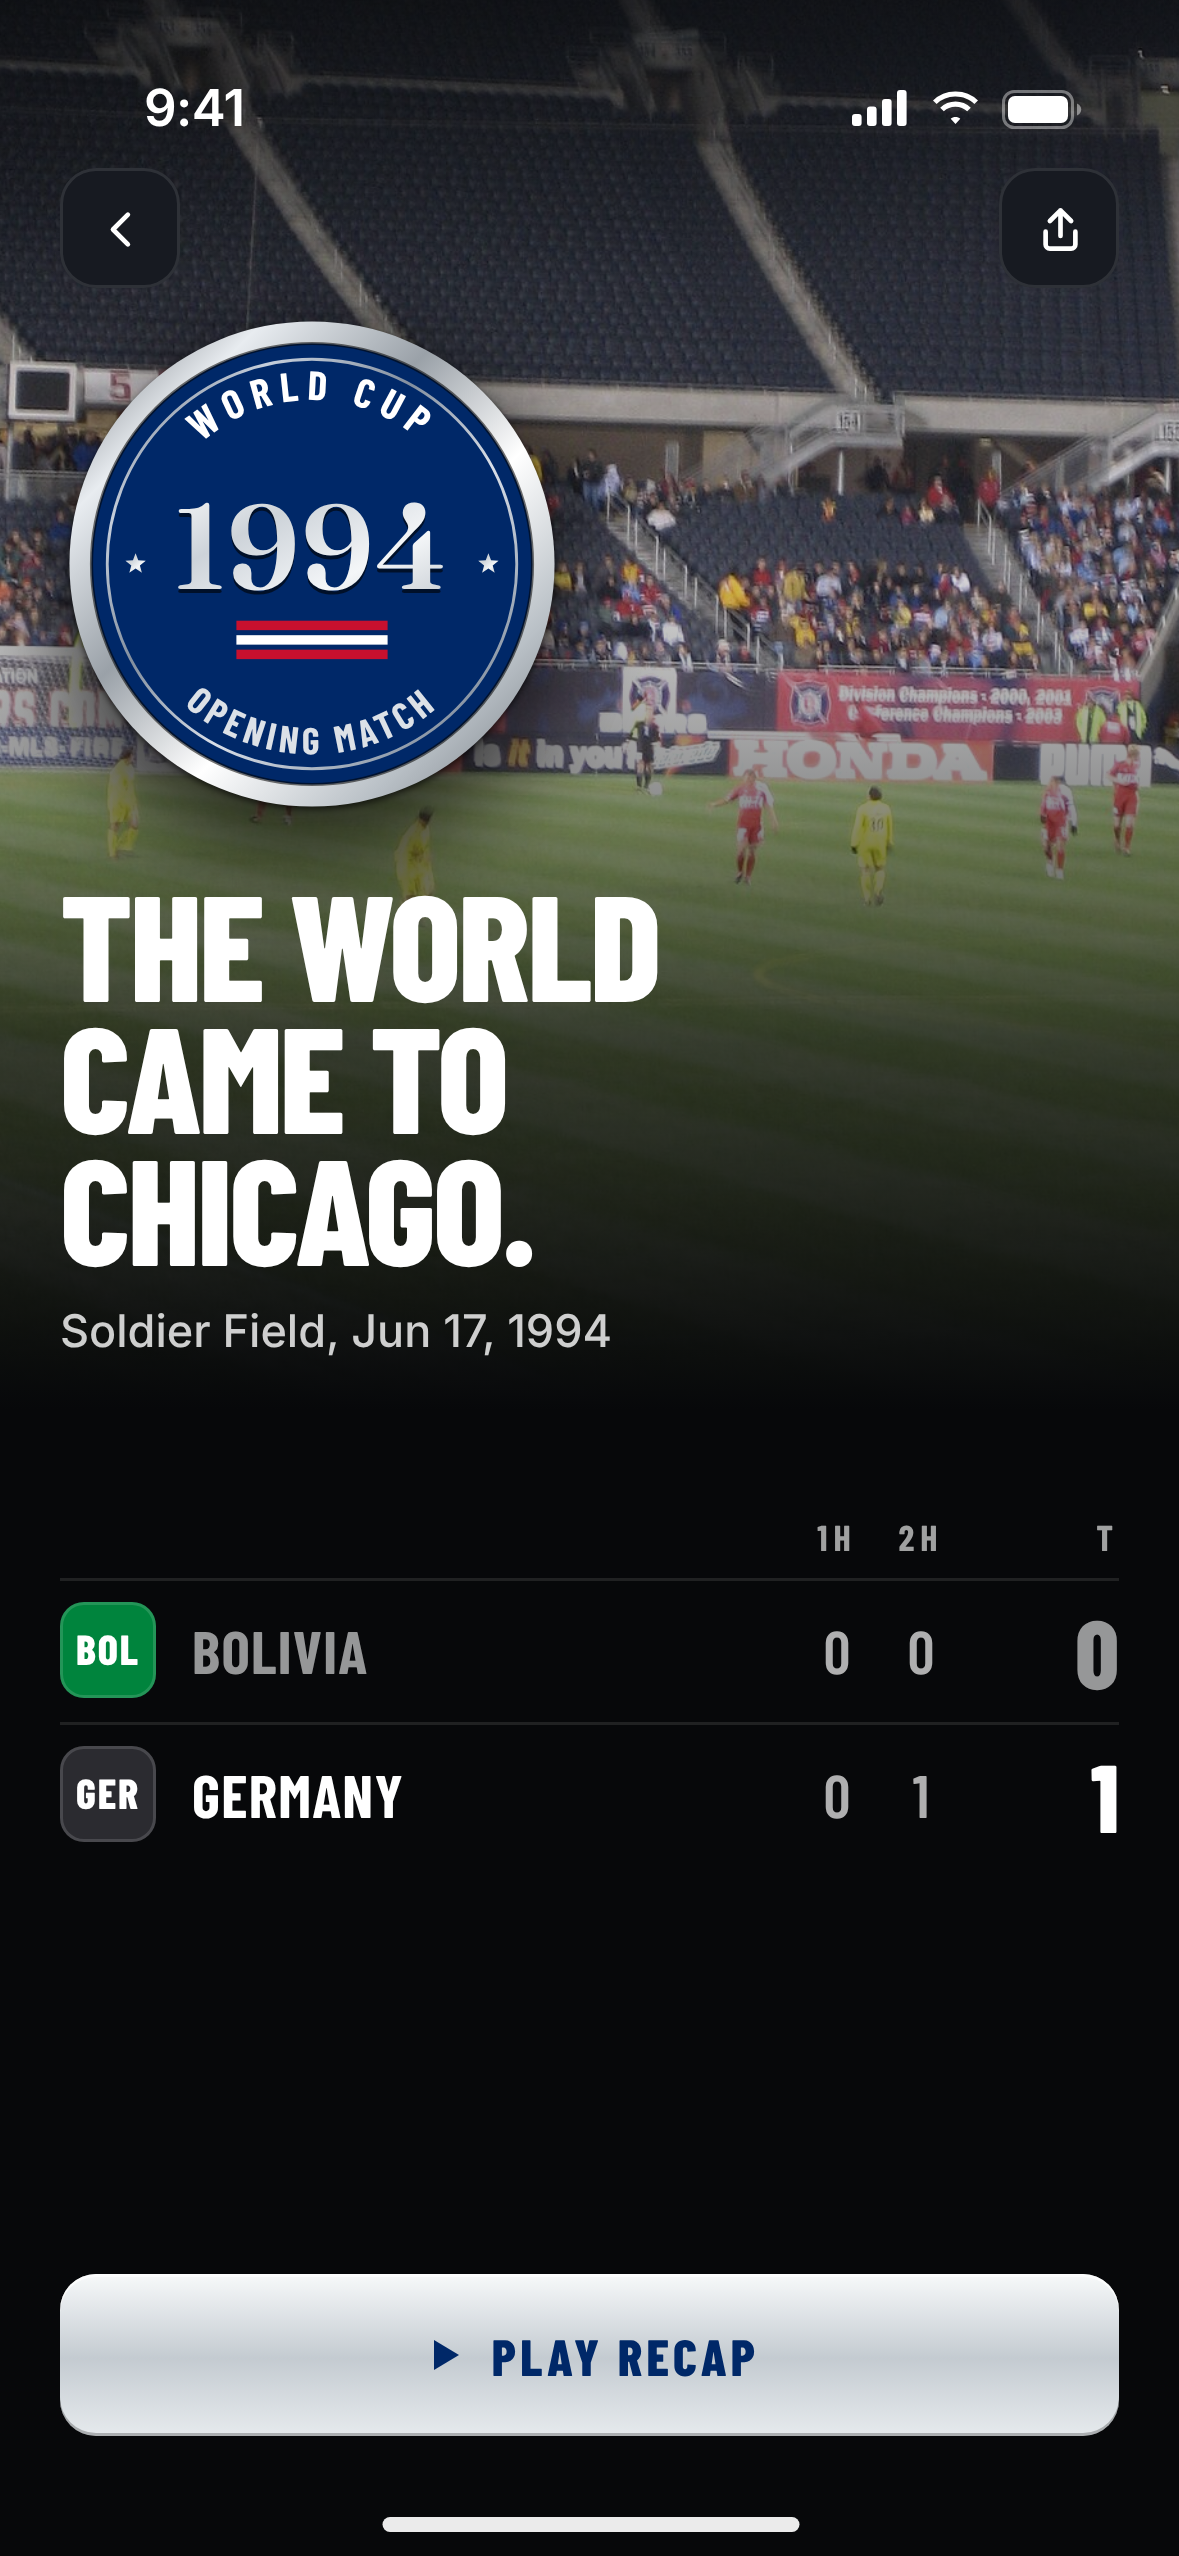
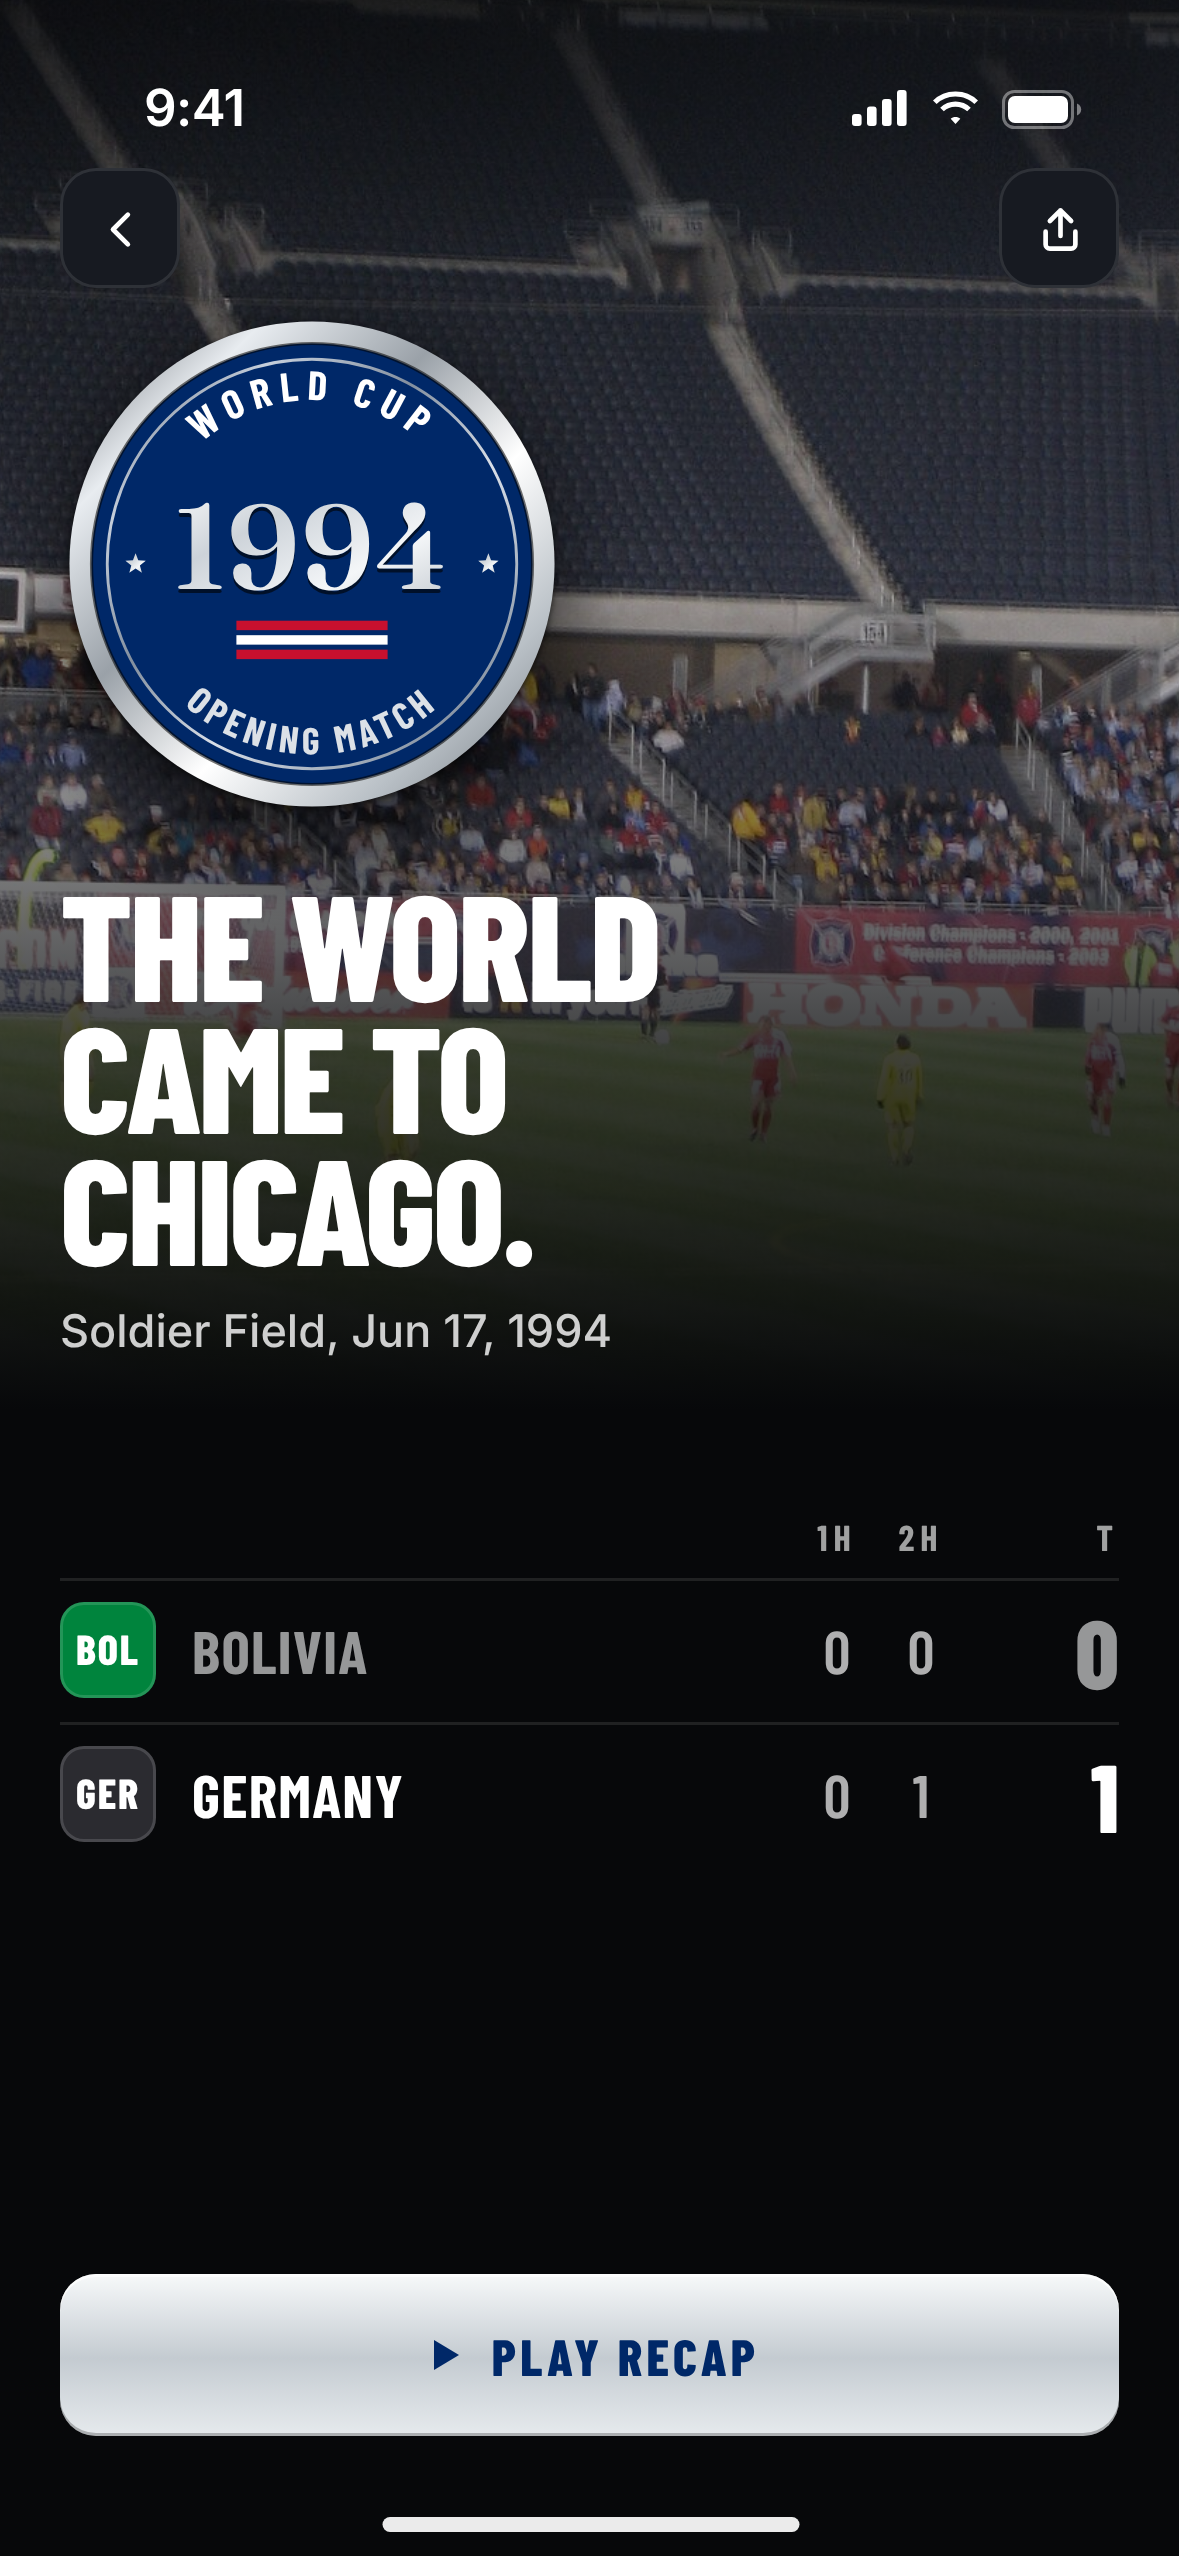
Badge exploration and palette research (in progress)
Claude-Session: https://claude.ai/code/session_01YKCsRGYnDsF5Pryete24Wa

Changed region(s): [[0.0, 0.0, 1.0, 0.4327], [0.916, 0.0, 1.0, 0.1236], [0.0611, 0.0309, 0.0916, 0.0618]]

diff --git a/mockups/big-games/explorations/heritage/features/badges/v5-world-cup-1994.html b/mockups/big-games/explorations/heritage/features/badges/v5-world-cup-1994.html
@@ -35,7 +35,7 @@
   .head { top: 292px; }
   .head .b-display { font-size: 50px; }</style></head>
 <body class="phone b">
-<div class="f-hero"><div class="crop" data-crop="soldier-soccer.jpg 0 500 1280 1100"></div></div><div class="pin"><svg class="hx-badge" style="" width="168.0" height="168" viewBox="0 0 160 160" xmlns="http://www.w3.org/2000/svg"><defs><linearGradient id="hx22-rim" x1="0" y1="0" x2="1" y2="1"><stop offset="0.000" stop-color="#5f656c"/><stop offset="0.200" stop-color="#e8ecf0"/><stop offset="0.400" stop-color="#9aa1a8"/><stop offset="0.600" stop-color="#ffffff"/><stop offset="0.800" stop-color="#b9c0c6"/><stop offset="1.000" stop-color="#6b7178"/></linearGradient><linearGradient id="hx22-txt" x1="0" y1="0" x2="1" y2="1"><stop offset="0.000" stop-color="#ffffff"/><stop offset="0.333" stop-color="#cdd3d9"/><stop offset="0.667" stop-color="#f4f6f8"/><stop offset="1.000" stop-color="#bcc3ca"/></linearGradient></defs><circle cx="80" cy="80" r="77" fill="url(#hx22-rim)"/><circle cx="80" cy="80" r="70" fill="#002868" stroke="rgba(0,0,0,.55)" stroke-width="1"/><circle cx="80" cy="80" r="65" fill="none" stroke="url(#hx22-rim)" stroke-width=".9" opacity=".85"/><rect x="56" y="98.0" width="48" height="3" fill="#C8102E"/><rect x="56" y="102.6" width="48" height="3" fill="#FFFFFF"/><rect x="56" y="107.2" width="48" height="3" fill="#C8102E"/><path id="hx22-arct" d="M28,80 A52,52 0 0 1 132,80" fill="none"/><text font-family="Barlow Condensed" font-weight="700" font-size="13" letter-spacing="2.6" fill="#FFFFFF"><textPath href="#hx22-arct" startOffset="50%" text-anchor="middle">WORLD CUP</textPath></text><path id="hx22-arcb" d="M19.5,80 A60.5,60.5 0 0 0 140.5,80" fill="none"/><text font-family="Barlow Condensed" font-weight="700" font-size="12" letter-spacing="1.6" fill="#DCE1E7"><textPath href="#hx22-arcb" startOffset="50%" text-anchor="middle">OPENING MATCH</textPath></text><polygon points="24.00,76.60 24.84,78.84 27.23,78.95 25.36,80.44 26.00,82.75 24.00,81.43 22.00,82.75 22.64,80.44 20.77,78.95 23.16,78.84" fill="url(#hx22-txt)"/><polygon points="136.00,76.60 136.84,78.84 139.23,78.95 137.36,80.44 138.00,82.75 136.00,81.43 134.00,82.75 134.64,80.44 132.77,78.95 135.16,78.84" fill="url(#hx22-txt)"/><text x="80" y="88" text-anchor="middle" font-family="Fraunces" font-weight="600" font-size="38" letter-spacing="0.76" style="font-variation-settings:'opsz' 72" fill="rgba(0,0,0,.6)" transform="translate(0 1.3)">1994</text><text x="80" y="88" text-anchor="middle" font-family="Fraunces" font-weight="600" font-size="38" letter-spacing="0.76" style="font-variation-settings:'opsz' 72" fill="url(#hx22-txt)">1994</text></svg></div><div class="b-nav" style="z-index:7"><div class="b-icon-btn"><svg viewBox="0 0 24 24"><path d="M15 5l-7 7 7 7"/></svg></div><div class="b-icon-btn"><svg viewBox="0 0 24 24"><path d="M12 15V3M7 8l5-5 5 5M5 13v6a2 2 0 0 0 2 2h10a2 2 0 0 0 2-2v-6"/></svg></div></div><div class="f-col head"><div class="b-display">The world<br>came to<br>Chicago.</div><div class="where">Soldier Field, Jun 17, 1994</div></div><div class="f-col body"><table class="ls"><tr><th></th><th>1H</th><th>2H</th><th style="text-align:right">T</th></tr><tr class="lose"><td class="tm"><div><span class="f-mono" style="--c:#00843d;box-shadow:inset 0 0 0 1px rgba(255,255,255,.14)">BOL</span>Bolivia</div></td><td>0</td><td>0</td><td class="t">0</td></tr><tr class=""><td class="tm"><div><span class="f-mono" style="--c:#2b2b30;box-shadow:inset 0 0 0 1px rgba(255,255,255,.14)">GER</span>Germany</div></td><td>0</td><td>1</td><td class="t">1</td></tr></table></div><div class="cta"><div class="b-btn" style="background:linear-gradient(180deg,#f7f9fa 0%,#c4cbd1 52%,#e6eaed 100%);color:#002868"><svg viewBox="0 0 24 24"><path d="M7 4.5v15l12.5-7.5z"/></svg>Play recap</div></div><script>
+<div class="f-hero"><div class="crop" data-crop="soldier-soccer.jpg 0 380 1280 1000"></div></div><div class="pin"><svg class="hx-badge" style="" width="168.0" height="168" viewBox="0 0 160 160" xmlns="http://www.w3.org/2000/svg"><defs><linearGradient id="hx22-rim" x1="0" y1="0" x2="1" y2="1"><stop offset="0.000" stop-color="#5f656c"/><stop offset="0.200" stop-color="#e8ecf0"/><stop offset="0.400" stop-color="#9aa1a8"/><stop offset="0.600" stop-color="#ffffff"/><stop offset="0.800" stop-color="#b9c0c6"/><stop offset="1.000" stop-color="#6b7178"/></linearGradient><linearGradient id="hx22-txt" x1="0" y1="0" x2="1" y2="1"><stop offset="0.000" stop-color="#ffffff"/><stop offset="0.333" stop-color="#cdd3d9"/><stop offset="0.667" stop-color="#f4f6f8"/><stop offset="1.000" stop-color="#bcc3ca"/></linearGradient></defs><circle cx="80" cy="80" r="77" fill="url(#hx22-rim)"/><circle cx="80" cy="80" r="70" fill="#002868" stroke="rgba(0,0,0,.55)" stroke-width="1"/><circle cx="80" cy="80" r="65" fill="none" stroke="url(#hx22-rim)" stroke-width=".9" opacity=".85"/><rect x="56" y="98.0" width="48" height="3" fill="#C8102E"/><rect x="56" y="102.6" width="48" height="3" fill="#FFFFFF"/><rect x="56" y="107.2" width="48" height="3" fill="#C8102E"/><path id="hx22-arct" d="M28,80 A52,52 0 0 1 132,80" fill="none"/><text font-family="Barlow Condensed" font-weight="700" font-size="13" letter-spacing="2.6" fill="#FFFFFF"><textPath href="#hx22-arct" startOffset="50%" text-anchor="middle">WORLD CUP</textPath></text><path id="hx22-arcb" d="M19.5,80 A60.5,60.5 0 0 0 140.5,80" fill="none"/><text font-family="Barlow Condensed" font-weight="700" font-size="12" letter-spacing="1.6" fill="#DCE1E7"><textPath href="#hx22-arcb" startOffset="50%" text-anchor="middle">OPENING MATCH</textPath></text><polygon points="24.00,76.60 24.84,78.84 27.23,78.95 25.36,80.44 26.00,82.75 24.00,81.43 22.00,82.75 22.64,80.44 20.77,78.95 23.16,78.84" fill="url(#hx22-txt)"/><polygon points="136.00,76.60 136.84,78.84 139.23,78.95 137.36,80.44 138.00,82.75 136.00,81.43 134.00,82.75 134.64,80.44 132.77,78.95 135.16,78.84" fill="url(#hx22-txt)"/><text x="80" y="88" text-anchor="middle" font-family="Fraunces" font-weight="600" font-size="38" letter-spacing="0.76" style="font-variation-settings:'opsz' 72" fill="rgba(0,0,0,.6)" transform="translate(0 1.3)">1994</text><text x="80" y="88" text-anchor="middle" font-family="Fraunces" font-weight="600" font-size="38" letter-spacing="0.76" style="font-variation-settings:'opsz' 72" fill="url(#hx22-txt)">1994</text></svg></div><div class="b-nav" style="z-index:7"><div class="b-icon-btn"><svg viewBox="0 0 24 24"><path d="M15 5l-7 7 7 7"/></svg></div><div class="b-icon-btn"><svg viewBox="0 0 24 24"><path d="M12 15V3M7 8l5-5 5 5M5 13v6a2 2 0 0 0 2 2h10a2 2 0 0 0 2-2v-6"/></svg></div></div><div class="f-col head"><div class="b-display">The world<br>came to<br>Chicago.</div><div class="where">Soldier Field, Jun 17, 1994</div></div><div class="f-col body"><table class="ls"><tr><th></th><th>1H</th><th>2H</th><th style="text-align:right">T</th></tr><tr class="lose"><td class="tm"><div><span class="f-mono" style="--c:#00843d;box-shadow:inset 0 0 0 1px rgba(255,255,255,.14)">BOL</span>Bolivia</div></td><td>0</td><td>0</td><td class="t">0</td></tr><tr class=""><td class="tm"><div><span class="f-mono" style="--c:#2b2b30;box-shadow:inset 0 0 0 1px rgba(255,255,255,.14)">GER</span>Germany</div></td><td>0</td><td>1</td><td class="t">1</td></tr></table></div><div class="cta"><div class="b-btn" style="background:linear-gradient(180deg,#f7f9fa 0%,#c4cbd1 52%,#e6eaed 100%);color:#002868"><svg viewBox="0 0 24 24"><path d="M7 4.5v15l12.5-7.5z"/></svg>Play recap</div></div><script>
 (function () {
   const N = {"wrigley-night.jpg": [1920, 2560], "united-center-court.jpg": [1280, 853], "camp-nou-aerial.jpg": [1280, 960], "soldier-soccer.jpg": [1280, 1707], "wrigley-bleachers.jpg": [1280, 853]};
   document.querySelectorAll('[data-crop]').forEach(b => {

diff --git a/mockups/big-games/explorations/heritage/build.py b/mockups/big-games/explorations/heritage/build.py
@@ -410,7 +410,7 @@ def memories():
            "Two goals.<br>Injury time.", "Camp Nou, May 26, 1999", ["1H", "2H"],
            [("BAY", "#dc052d", "Munich", [1, 0], 1, True), ("MUN", "#da291c", "Manchester", [0, 2], 2, False)],
            tint='<div class="tint" style="background:linear-gradient(180deg,#081548cc,#08154833 60%,transparent)"></div>')
-    memory(5, "wc", "world-cup-1994", "soldier-soccer.jpg 0 500 1280 1100", "contrast(1.05) saturate(.85) brightness(.85)",
+    memory(5, "wc", "world-cup-1994", "soldier-soccer.jpg 0 380 1280 1000", "contrast(1.05) saturate(.85) brightness(.85)",
            "The world<br>came to<br>Chicago.", "Soldier Field, Jun 17, 1994", ["1H", "2H"],
            [("BOL", "#00843d", "Bolivia", [0, 0], 0, True), ("GER", "#2b2b30", "Germany", [0, 1], 1, False)],
            top=292, hsize=50)
